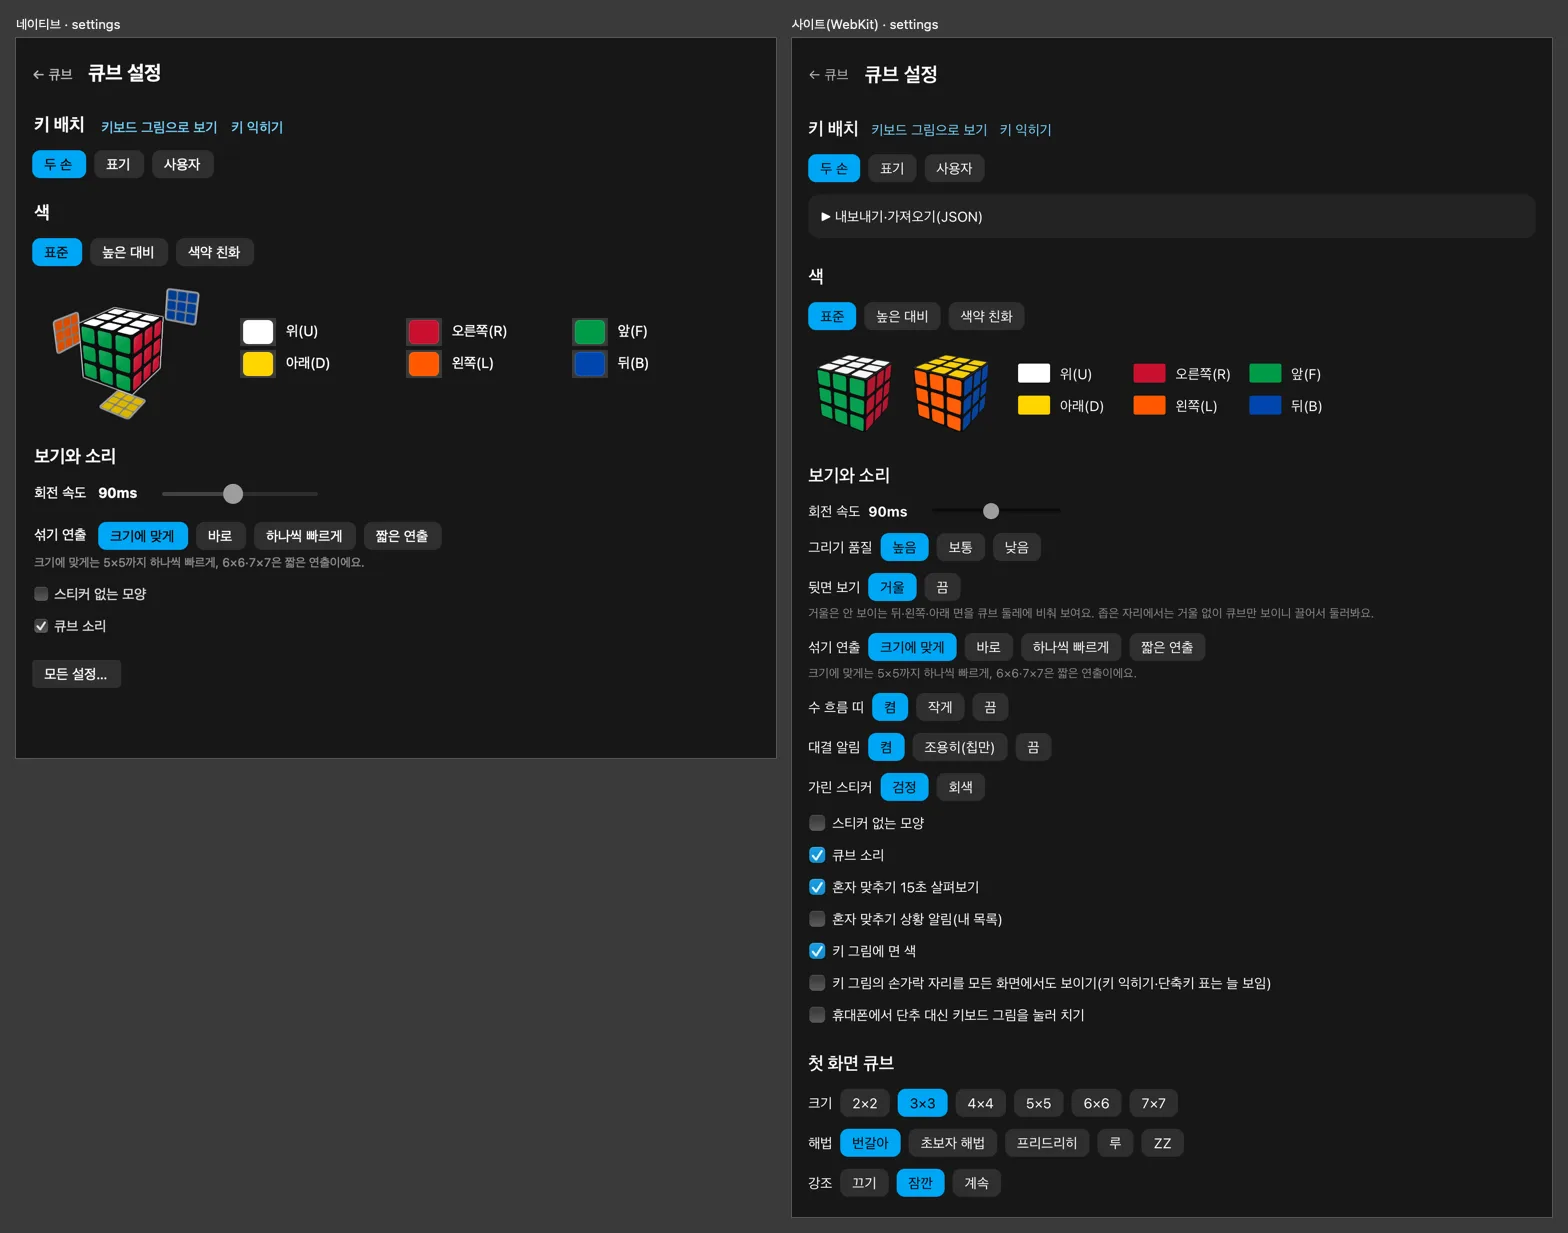
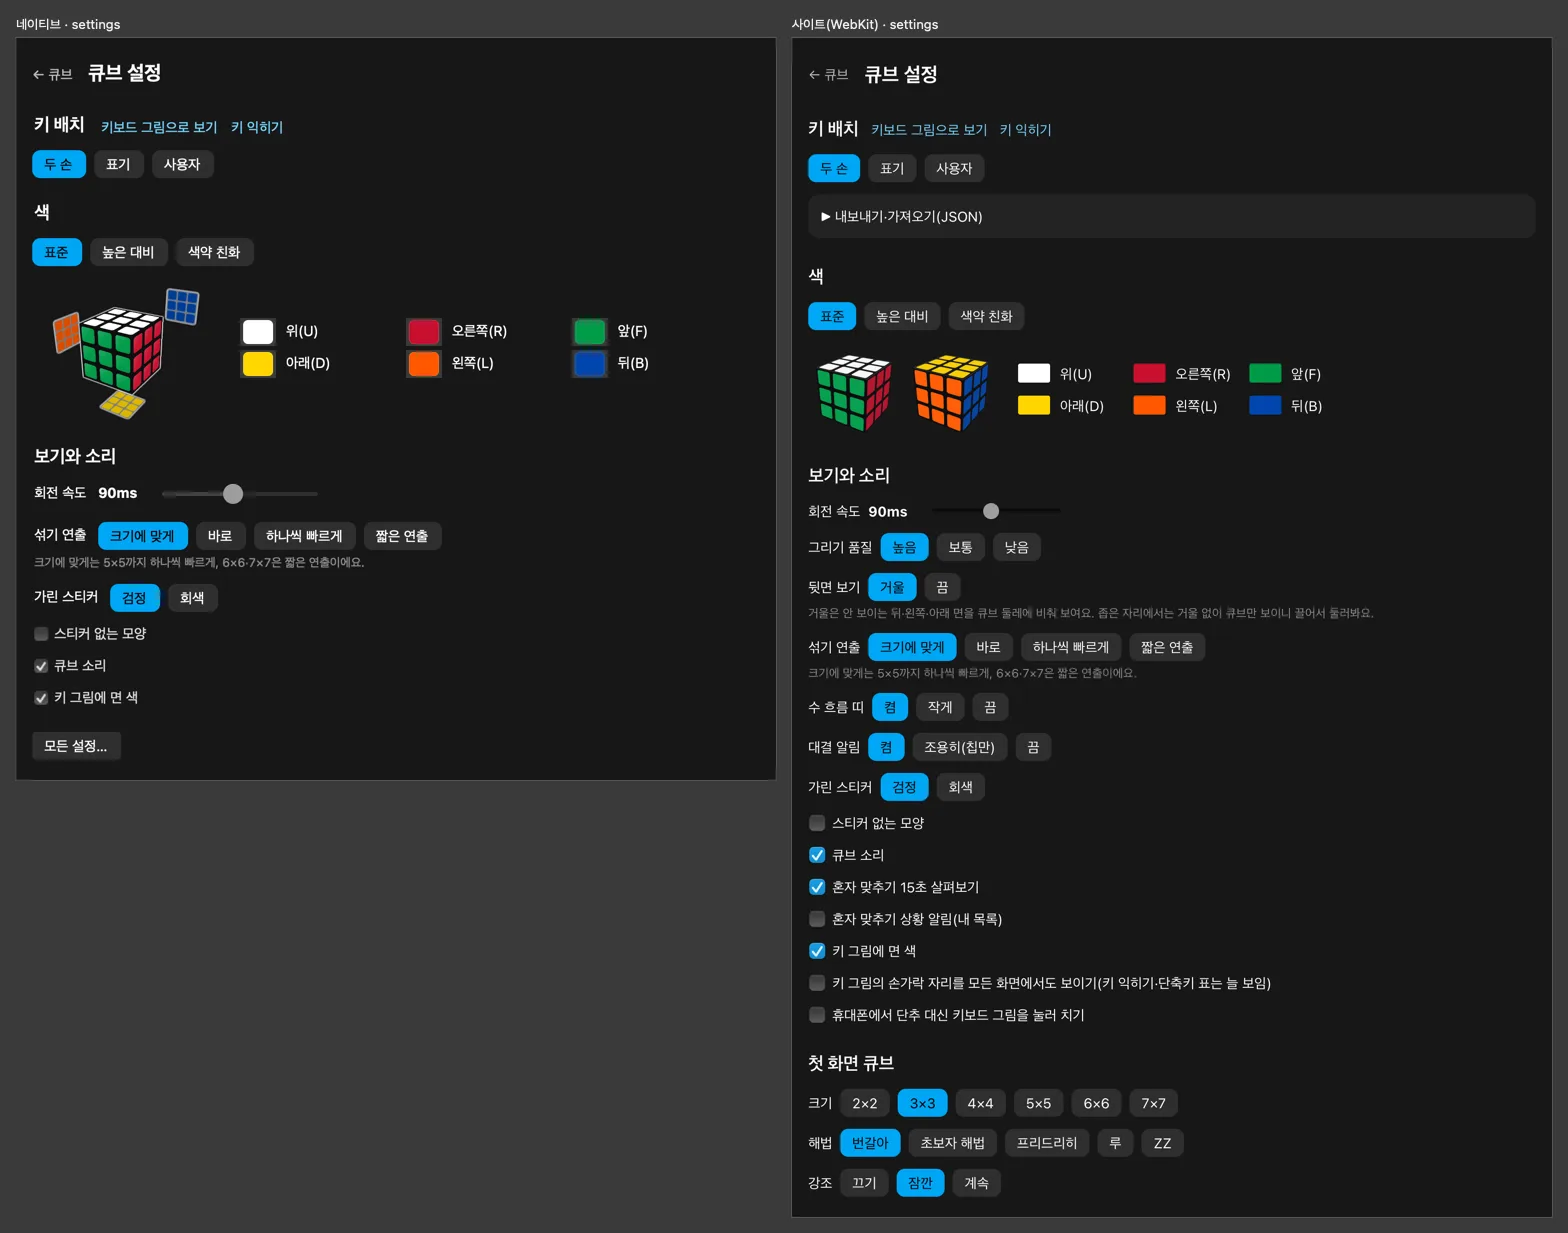
feat(cubie): 설정 창에 가린 스티커·키 그림에 면 색
#274부터 큐브 창이 읽는 설정 둘을 네이티브 설정 창에 사이트와 같은 글·
차례로 더했다: 「가린 스티커」(검정·회색, 공식 연습 가리기 칸 색)와
「키 그림에 면 색」(F1 표 칸 색). 바꾸면 바로 큐브 창과 F1 표가 다시
읽는다. 「뒷면 보기」는 Cubie가 읽지 않아 넣지 않았다(Cubie 거울은 메뉴
「거울」, cube.mini.v1의 mirror). 그 밖에 큐브 창이 읽는 칸은
CubeSettings.parse와 사이트 미니 화면으로 확인해 모두 들어 있다.

비교 그림 세 장을 합친 빌드로 다시 찍었다.

Changed region(s): [[0.0, 0.4623, 0.5, 0.6472]]

diff --git a/apps/cubie/Sources/Cubie/NativeSettingsWindow.swift b/apps/cubie/Sources/Cubie/NativeSettingsWindow.swift
@@ -60,8 +60,13 @@ final class SettingsPageView: FlippedView {
   private let showLabel = NUI.label(SettingsSheet.scrambleShow, size: 14, mono: false)
   private var showChips: [Chip] = []
   private let showNote = NUI.paragraph(SettingsSheet.scrambleShowNote, color: NUI.white(0.5), lineHeight: 16)
+  private let hiddenLabel = NUI.label(SettingsSheet.hidden, size: 14, mono: false)
+  private var hiddenChips: [Chip] = []
   private let stickerless = NSButton(checkboxWithTitle: SettingsSheet.stickerless, target: nil, action: nil)
   private let sound = NSButton(checkboxWithTitle: SettingsSheet.sound, target: nil, action: nil)
+  private let keyColors = NSButton(checkboxWithTitle: SettingsSheet.keyColors, target: nil, action: nil)
+  /// 체크 칸(사이트 차례)
+  private var checks: [NSButton] { [stickerless, sound, keyColors] }
   private let all = Chip(SettingsSheet.allSettings, look: Chip.Look(fill: NUI.white(0.1), size: 14, padX: 12, padY: 4))
 
   private var settingsText: String? { store.string(CubeSettings.key) }
@@ -109,14 +114,23 @@ final class SettingsPageView: FlippedView {
       }
       showChips.append(c)
     }
-    for b in [stickerless, sound] {
+    for (id, label) in SettingsSheet.hiddenChoices {
+      let c = Chip(label)
+      c.action = { [weak self] in
+        self?.write(settings: SettingsSheet.updated(self?.settingsText) { $0["hidden"] = id })
+      }
+      hiddenChips.append(c)
+    }
+    for b in checks {
       b.target = self
       b.action = #selector(toggled(_:))
       b.font = NUI.font(14, mono: false)
     }
     all.action = { [weak self] in self?.openWeb?() }
     var views: [NSView] = [back, title, keymapTitle, keysMap, keysLearn, customBox, colorsTitle, customChip, preview]
-    views.append(contentsOf: [viewTitle, speedLabel, speedValue, slider, showLabel, showNote, stickerless, sound, all])
+    views.append(contentsOf: [viewTitle, speedLabel, speedValue, slider, showLabel, showNote, hiddenLabel, all])
+    views.append(contentsOf: checks as [NSView])
+    views.append(contentsOf: hiddenChips as [NSView])
     views.append(contentsOf: presetChips as [NSView])
     views.append(contentsOf: schemeChips as [NSView])
     views.append(contentsOf: wells as [NSView])
@@ -165,6 +179,12 @@ final class SettingsPageView: FlippedView {
     }
     stickerless.state = s.stickerless ? .on : .off
     sound.state = s.sound ? .on : .off
+    keyColors.state = s.keyColors ? .on : .off
+    for (i, (id, _)) in SettingsSheet.hiddenChoices.enumerated() {
+      let on = (id == "gray") == s.hiddenGray
+      hiddenChips[i].look = Self.chipLook(on)
+      hiddenChips[i].pressed = on
+    }
     needsLayout = true
   }
 
@@ -198,7 +218,7 @@ final class SettingsPageView: FlippedView {
   }
 
   @objc private func toggled(_ b: NSButton) {
-    let key = b === stickerless ? "stickerless" : "sound"
+    let key = b === stickerless ? "stickerless" : b === sound ? "sound" : "keyColors"
     write(settings: SettingsSheet.updated(settingsText) { $0[key] = b.state == .on })
   }
 
@@ -269,7 +289,10 @@ final class SettingsPageView: FlippedView {
     let nh = NUI.height(showNote, width: w)
     showNote.frame = NSRect(x: x0, y: y, width: w, height: nh)
     y += nh + 12
-    for b in [stickerless, sound] {
+    hiddenLabel.frame = NSRect(x: x0, y: y + 4, width: NUI.width(hiddenLabel), height: 20)
+    row(hiddenChips, x: hiddenLabel.frame.maxX + 8, y: y)
+    y += 28 + 12
+    for b in checks {
       b.frame = NSRect(x: x0, y: y, width: w, height: 20)
       y += 20 + 12
     }

diff --git a/apps/cubie/Sources/CubieCore/SettingsSheet.swift b/apps/cubie/Sources/CubieCore/SettingsSheet.swift
@@ -1,8 +1,9 @@
 import Foundation
 
 /// 설정 창의 글과 저장 글 고치기(사이트 `apps/web/src/cube/components/CubeSettingsApp.tsx`, `settings.ts`, `input/storage.ts`).
-/// 네이티브 설정 창(`NativeSettingsWindow`)은 사이트 설정 가운데 Cubie가 쓰는 것만 같은 글·차례로 보인다: 키 배치(두 손·표기·사용자),
-/// 색, 회전 속도, 섞기 연출, 스티커 없는 모양, 큐브 소리. 사용자 배치 편집과 Cubie가 쓰지 않는 설정(그리기 품질·첫 화면 큐브 등)은
+/// 네이티브 설정 창(`NativeSettingsWindow`)은 사이트 설정 가운데 Cubie 큐브 창·F1 표가 읽는 칸(`CubeSettings.parse`)만 같은 글·차례로
+/// 보인다: 키 배치(두 손·표기·사용자), 색, 회전 속도, 섞기 연출, 가린 스티커, 스티커 없는 모양, 큐브 소리, 키 그림에 면 색.
+/// 「뒷면 보기」는 Cubie가 읽지 않는다(Cubie 거울은 메뉴 「거울」, `cube.mini.v1`의 `mirror`). 사용자 배치 편집과 Cubie가 쓰지 않는 설정(그리기 품질·첫 화면 큐브 등)은
 /// 「모든 설정…」이 여는 사이트 창이 맡는다. 저장 글은 사이트와 같은 키·같은 JSON이고 모르는 칸은 그대로 둔다
 public enum SettingsSheet {
   // MARK: 글(사이트와 같다)
@@ -26,8 +27,13 @@ public enum SettingsSheet {
     ("auto", "크기에 맞게"), ("instant", "바로"), ("moves", "하나씩 빠르게"), ("spin", "짧은 연출"),
   ]
   public static let scrambleShowNote = "크기에 맞게는 5×5까지 하나씩 빠르게, 6×6·7×7은 짧은 연출이에요."
+  /// 공식 연습 가리기의 가린 칸 색(사이트 `hidden`, 큐브 창 `CubeSettings.hiddenColor`)
+  public static let hidden = "가린 스티커"
+  public static let hiddenChoices: [(id: String, label: String)] = [("black", "검정"), ("gray", "회색")]
   public static let stickerless = "스티커 없는 모양"
   public static let sound = "큐브 소리"
+  /// F1 단축키 표 칸에 면 색(사이트 `keyColors`)
+  public static let keyColors = "키 그림에 면 색"
   /// 앱에만 있는 단추: 사용자 배치 편집·나머지 설정은 사이트 설정 창에서
   public static let editCustom = "사용자 배치 편집…"
   public static let allSettings = "모든 설정…"

diff --git a/apps/cubie/Tests/CubieCoreTests/SettingsSheetTests.swift b/apps/cubie/Tests/CubieCoreTests/SettingsSheetTests.swift
@@ -31,6 +31,14 @@ struct SettingsSheetTests {
     }
     let p = CubeSettings.parse(s)
     #expect(p.moveMs == 150 && p.scrambleShow == .spin && p.stickerless && !p.sound)
+    // 가린 스티커(공식 연습 가리기 칸 색)·키 그림에 면 색(F1 표)
+    let gray = SettingsSheet.updated(s) {
+      $0["hidden"] = SettingsSheet.hiddenChoices[1].id
+      $0["keyColors"] = false
+    }
+    let g = CubeSettings.parse(gray)
+    #expect(g.hiddenGray && g.hiddenColor == 0x6b6b6b && !g.keyColors)
+    #expect(CubeSettings.parse(SettingsSheet.updated(gray) { $0["hidden"] = "black" }).hiddenColor == 0x111111)
   }
 
   @Test func keymapPresetAndCustom() {

diff --git a/apps/web/src/cube/native/native-windows-text.test.ts b/apps/web/src/cube/native/native-windows-text.test.ts
@@ -108,6 +108,10 @@ describe("Cubie 네이티브 창 글 = 사이트 화면 글", () => {
       "크기에 맞게는 5×5까지 하나씩 빠르게, 6×6·7×7은 짧은 연출이에요.",
       '"스티커 없는 모양"',
       '"큐브 소리"',
+      "가린 스티커",
+      '"검정"',
+      '"회색"',
+      '"키 그림에 면 색"',
     ]));
 
   it("설정 칩 이름(사이트 이름표 모음)", () => {
